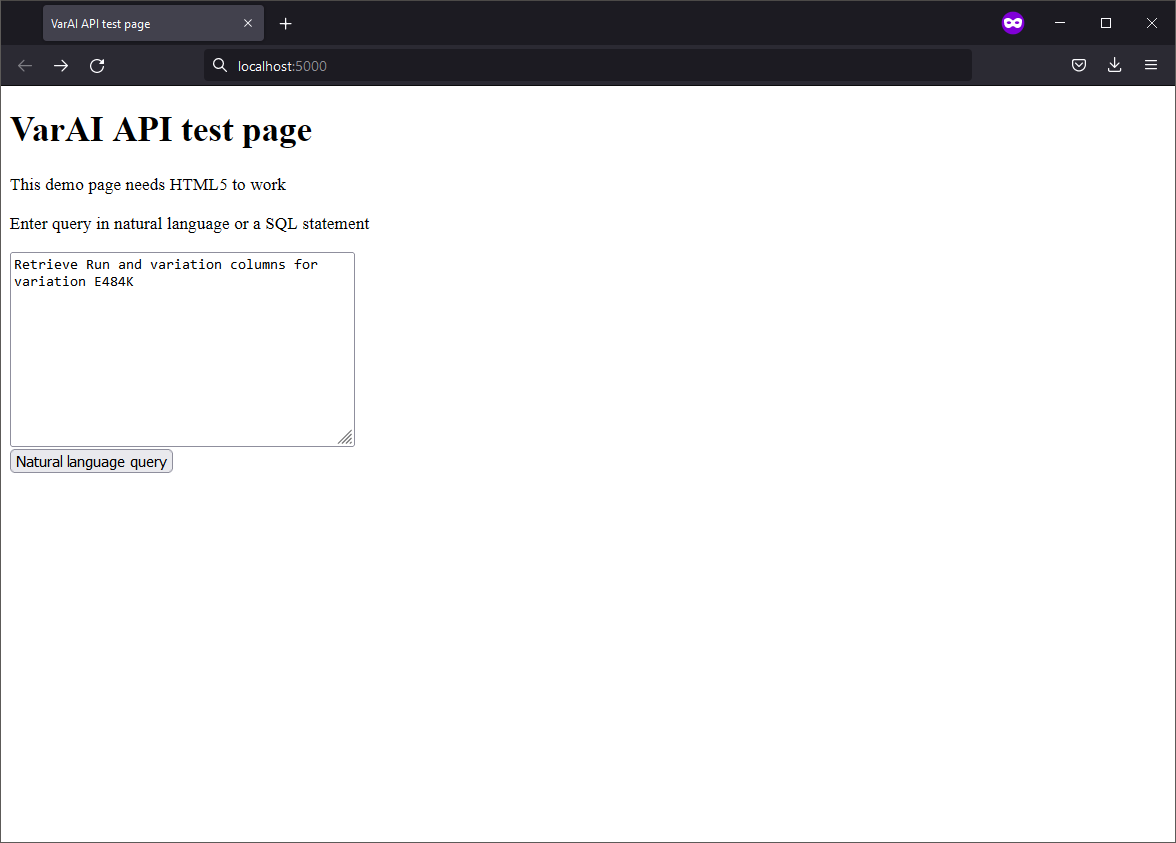
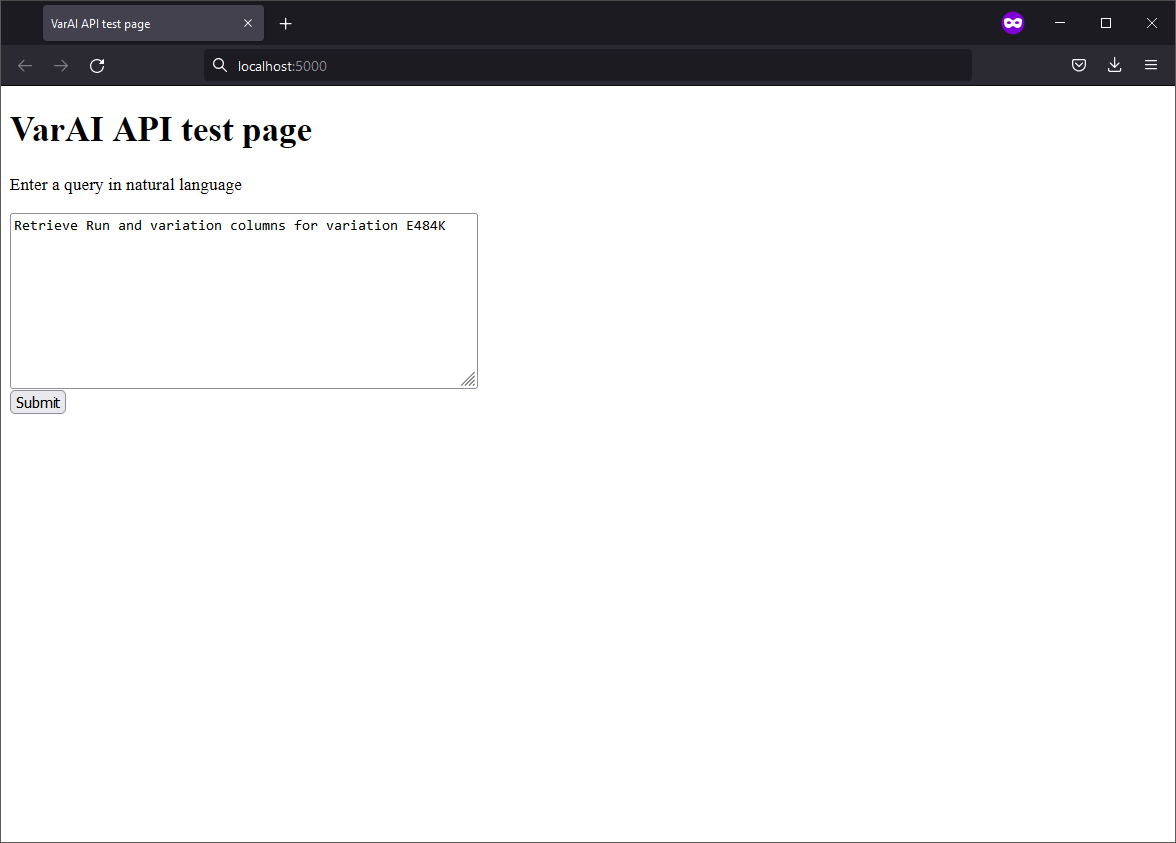
update text on the API test page and related images and references

diff --git a/api/src/app/templates/home.html b/api/src/app/templates/home.html
@@ -32,12 +32,11 @@
   </head>
   <body>
     <h1>VarAI API test page</h1>
-    <p>This demo page needs HTML5 to work</p>
-    <p>Enter query in natural language or a SQL statement</p>
+    <p>Enter a query in natural language</p>
     <p>
     <form id=frmQry>
       <textarea name="query" cols="40" rows="10" id="query" name="query"></textarea><br/>
-      <input type="submit" name="bynl" value="Natural language query" form="form" id="bynl"/>
+      <input type="submit" name="bynl" value="Submit" form="form" id="bynl"/>
     </form>
     </p>
   </body>

diff --git a/README.md b/README.md
@@ -28,6 +28,12 @@ Goals The main objectives of this project are as follows:
 **VCF** (Lon)
 **External data - Gene, Pubmed, etc.** (Polycarp or Chey)
 
+### VarAI app (Chelsea)
+
+A web application for general users to query the data using NLP.
+
+![streamlit page](images/streamlit/streamlit_demo_vcf.png "Streamlit Demo page")
+
 ### Jupyter Notebook (Zhanni, Ricardo)
 
 `Notebooks/test-model.ipynb` is a sample notebook for data analysts and Bioinformatics scientists to test code snippets, visualize data, and immediately see the results.
@@ -59,12 +65,10 @@ Converting NL to SQL is simulated.
 
 Evaluate and demonstrate using `langchain` with Open Source Llama model(s), so that users do not need to use paid GPT models. Sample code is in `langchain` directory. Instructions on quantizing models is under the doc directory
 
-### VarAI app (Chelsea)
-
-A web application for general users to query the data using NLP.
-
-![streamlit page](images/streamlit/streamlit_demo_vcf.png "Streamlit Demo page")
-
 ## Results
 
+TBW
+
 ## Future Work
+
+TBW
